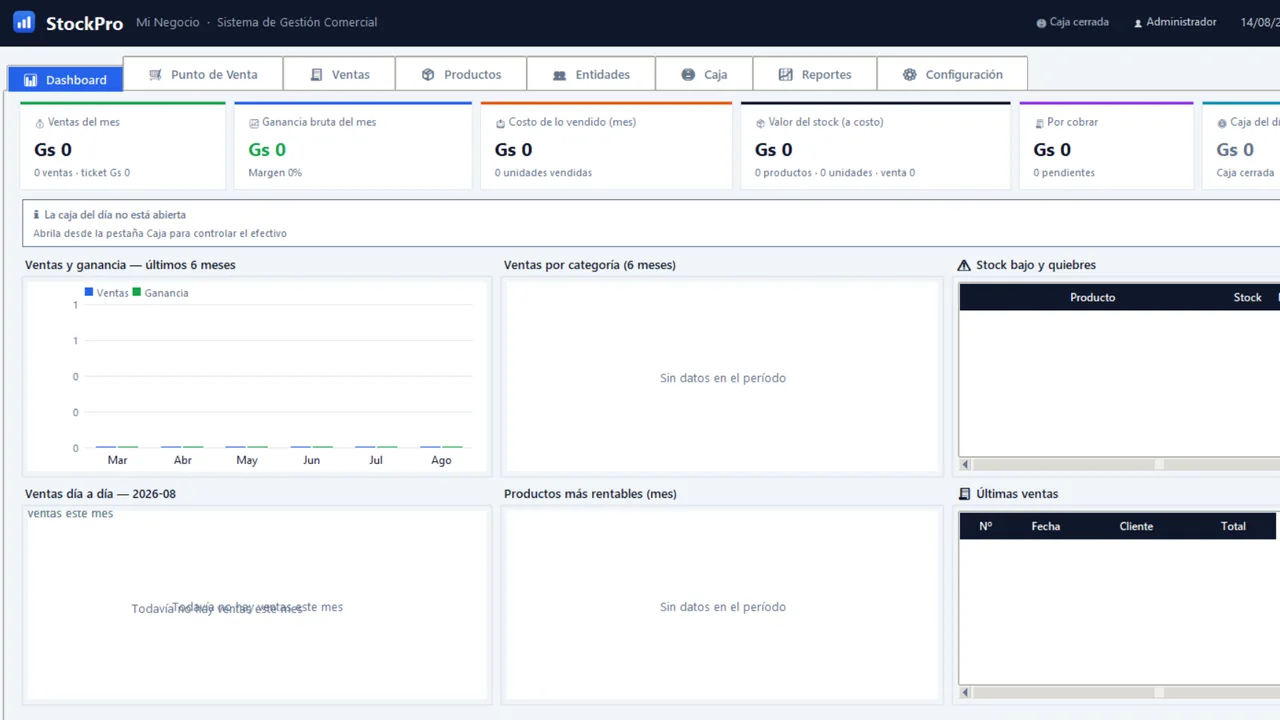
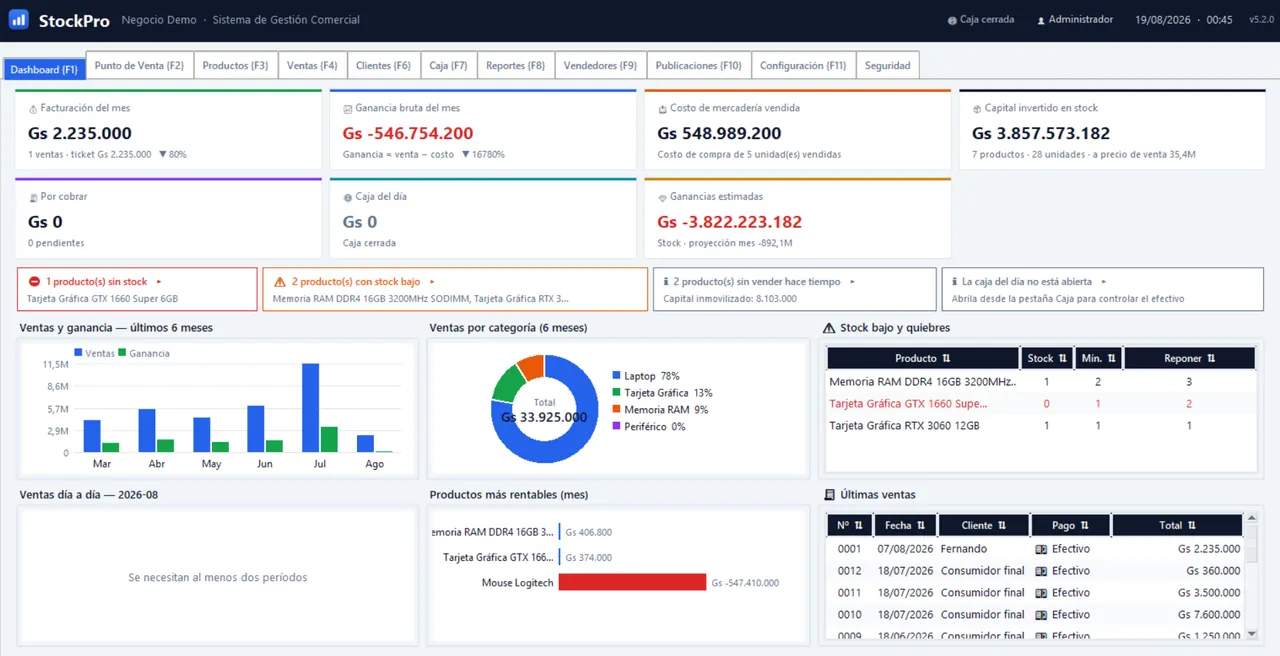
feat(proyectos): tres proyectos nuevos, mosaico por paridad y distintivo ELBRUX
Entran Cinemateca, Pulse y Marvel World, y se reemplaza la captura de
StockPro: la anterior estaba sin datos cargados y recortada por la derecha.

El ancho de cada pieza deja de escribirse en el proyecto y lo reparte
anchos() segun cuantas hay a la vista: filas de dos, y de tres en la ultima
cuando el numero es impar. Hace falta calcularlo porque el filtro por
tecnologia cambia ese numero, y con anchos fijos filtrar obligaba a mandar
todas las piezas a una sola columna. Vive en data/mosaico.ts y no en
data/projects.ts porque lo usa tambien el script del navegador, y projects.ts
importa las capturas con astro:assets.

Se quita el hueco vertical de sobra entre filas: cada panel cerrado ocupa su
fila aunque mida 0 px, y con gap-4 se llevaba un hueco entero a cada lado.
Ahora la rejilla solo separa columnas y el vertical lo pone la pieza.

La captura del panel llena la columna en vez de quedarse en su alto natural,
que dejaba un vacio debajo. Ancla a la izquierda para que el recorte se lo
lleve el borde derecho y no las barras laterales de las interfaces.

Faro y Timon llevan distintivo de ELBRUX en la pieza y una linea enlazada a
Experiencia en el panel. StockPro no lo lleva: se entrego aparte de la marca.

diff --git a/src/i18n/content.ts b/src/i18n/content.ts
@@ -147,6 +147,24 @@ export const projects: Record<Lang, ProjectEntry[]> = {
       description:
         "Aplicación móvil para la gestión de listas de compras con sincronización en tiempo real, pensada para mejorar la organización y experiencia del usuario.",
     },
+    {
+      title: "Cinemateca",
+      resumen: "Catálogo de cine y sala de dominio público",
+      description:
+        "Catálogo de cine en español con el censo completo de TMDb —más de 1,2 millones de títulos—, estrenos al día y las plataformas donde ver cada película legalmente en cada país. Incluye una sala libre con reproductor propio, selector de calidad, pistas de audio y subtítulos, que solo sirve obras de dominio público y Creative Commons: la restricción la impone un trigger en PostgreSQL, no la buena voluntad del código. Los importadores son reanudables, con el cursor guardado en la base.",
+    },
+    {
+      title: "Pulse",
+      resumen: "Catálogo musical con reproductor propio",
+      description:
+        "Catálogo musical en español que separa obra, grabación y publicación, la distinción que ninguna plataforma comercial expone: créditos completos de quién tocó, produjo y mezcló cada tema, formaciones de los grupos con sus años y búsqueda por un verso de la letra. El reproductor es propio, con cola, radio infinita, listas, atajos de teclado y un visualizador que lee el audio real con AnalyserNode. Suena entero solo lo libre; del resto, el adelanto oficial.",
+    },
+    {
+      title: "Marvel World",
+      resumen: "Enciclopedia del universo Marvel",
+      description:
+        "Enciclopedia en español del universo Marvel, y no solo lo que llegó al cine: más de 2.600 personajes con su Power Grid oficial y relaciones dirigidas entre ellos —«mentor de» no significa lo mismo al revés—, además de equipos, especies, lugares, objetos, realidades y eventos, todos navegables en cruce. El esquema lo define SQL numerado y migrado, nunca el ORM, y los importadores de Marvel API, TMDb y Wikidata son idempotentes gracias a una tabla de fuentes externas.",
+    },
   ],
 
   en: [
@@ -185,6 +203,24 @@ export const projects: Record<Lang, ProjectEntry[]> = {
       resumen: "Real-time shopping lists",
       description:
         "Mobile app for managing shopping lists with real-time synchronisation, designed to improve organisation and the overall user experience.",
+    },
+    {
+      title: "Cinemateca",
+      resumen: "Film catalogue and public-domain screening room",
+      description:
+        "Spanish-language film catalogue holding TMDb's full census — over 1.2 million titles — with same-day releases and the platforms where each film can be watched legally in any given country. It includes a free screening room with a custom player offering quality, audio-track and subtitle selection, serving only public-domain and Creative Commons works: the rule is enforced by a PostgreSQL trigger, not by the code's good intentions. Every long importer is resumable, with its cursor stored in the database.",
+    },
+    {
+      title: "Pulse",
+      resumen: "Music catalogue with a custom player",
+      description:
+        "Spanish-language music catalogue that separates work, recording and release — the distinction no commercial service exposes: full credits for who played, produced and mixed each track, band line-ups with their years, and search by a single line of lyrics. The player is custom-built, with a queue, endless radio, playlists, keyboard shortcuts and a visualiser that reads the real audio through an AnalyserNode. Only free music plays in full; everything else, the official preview.",
+    },
+    {
+      title: "Marvel World",
+      resumen: "Encyclopaedia of the Marvel universe",
+      description:
+        "Spanish-language encyclopaedia of the Marvel universe, and not just what made it to the screen: over 2,600 characters with their official Power Grid and directed relationships between them — \"mentor of\" does not mean the same in reverse — plus teams, species, locations, objects, realities and events, all cross-navigable. The schema is defined by numbered, migrated SQL rather than the ORM, and the Marvel API, TMDb and Wikidata importers are idempotent thanks to an external-sources table.",
     },
   ],
 };

diff --git a/src/data/projects.ts b/src/data/projects.ts
@@ -15,6 +15,9 @@ import stockpro from "../assets/projects/StockPro.webp";
 import biotech from "../assets/projects/BioTech.webp";
 import atelier from "../assets/projects/Atelier.webp";
 import shopeasy from "../assets/projects/ShopEasy.webp";
+import cinemateca from "../assets/projects/Cinemateca.webp";
+import pulse from "../assets/projects/Pulse.webp";
+import marvelworld from "../assets/projects/MarvelWorld.webp";
 
 export interface Project {
   /** identifica la tarjeta en el DOM y en la URL del filtro */
@@ -22,6 +25,12 @@ export interface Project {
   image: ImageMetadata;
   /** sitio publico, vacio si no lo tiene */
   link: string;
+  /**
+   * Entregado como ELBRUX, la marca propia. Marca la pieza en el mosaico.
+   * Solo Faro y Timon: StockPro se entrego aparte, aunque comparta cliente
+   * y epoca.
+   */
+  elbrux?: true;
   /** lo que caracteriza al proyecto; se muestra como etiquetas de color */
   tags: TechKey[];
   /**
@@ -35,13 +44,14 @@ export interface Project {
    */
   transversal: TechKey[];
   /**
-   * Posicion y tamano en el mosaico. El array conserva el orden de
-   * i18n/content.ts, que empareja por indice; la seccion ordena por `orden`
-   * despues de juntar ambos. Los `span` de cada fila suman 3, que son las
-   * columnas del mosaico: si no suman, quedan huecos.
+   * Posicion en el mosaico. El array conserva el orden de i18n/content.ts, que
+   * empareja por indice; la seccion ordena por `orden` despues de juntar ambos.
+   *
+   * El ancho de la pieza no se escribe aqui: lo reparte anchos() en
+   * data/mosaico.ts segun cuantas haya a la vista, que con el filtro por
+   * tecnologia no son siempre las nueve.
    */
   orden: number;
-  span: 1 | 2;
 }
 
 export const PROJECTS: Project[] = [
@@ -49,19 +59,19 @@ export const PROJECTS: Project[] = [
     slug: "faro",
     image: faro,
     link: "",
+    elbrux: true,
     tags: ["python", "fastapi", "postgresql", "react", "tailwind", "docker"],
     transversal: ["git", "html", "css", "node"],
-    orden: 1,
-    span: 2,
+    orden: 4,
   },
   {
     slug: "timon",
     image: timon,
     link: "",
+    elbrux: true,
     tags: ["python", "fastapi", "postgresql", "react", "tailwind", "docker"],
     transversal: ["git", "html", "css", "node"],
-    orden: 4,
-    span: 2,
+    orden: 5,
   },
   {
     slug: "stockpro",
@@ -69,8 +79,7 @@ export const PROJECTS: Project[] = [
     link: "",
     tags: ["python", "tkinter", "sqlite"],
     transversal: ["git"],
-    orden: 2,
-    span: 1,
+    orden: 6,
   },
   {
     slug: "biotech",
@@ -78,8 +87,7 @@ export const PROJECTS: Project[] = [
     link: "",
     tags: ["java", "springboot", "postgresql", "react", "javascript", "bootstrap", "docker"],
     transversal: ["git", "html", "css", "node"],
-    orden: 5,
-    span: 2,
+    orden: 7,
   },
   {
     slug: "atelier",
@@ -87,8 +95,7 @@ export const PROJECTS: Project[] = [
     link: "",
     tags: ["java", "springboot", "postgresql", "react", "javascript", "bootstrap"],
     transversal: ["git", "html", "css", "node"],
-    orden: 3,
-    span: 1,
+    orden: 8,
   },
   {
     slug: "shopeasy",
@@ -96,8 +103,31 @@ export const PROJECTS: Project[] = [
     link: "https://shopeasy-app.web.app/",
     tags: ["ionic", "angular", "firebase", "typescript", "sass"],
     transversal: ["git", "html", "css", "node"],
-    orden: 6,
-    span: 1,
+    orden: 9,
+  },
+  {
+    slug: "cinemateca",
+    image: cinemateca,
+    link: "",
+    tags: ["python", "fastapi", "postgresql", "react", "tailwind", "docker"],
+    transversal: ["git", "html", "css", "node"],
+    orden: 1,
+  },
+  {
+    slug: "pulse",
+    image: pulse,
+    link: "",
+    tags: ["python", "fastapi", "postgresql", "react", "tailwind", "docker"],
+    transversal: ["git", "html", "css", "node"],
+    orden: 2,
+  },
+  {
+    slug: "marvel-world",
+    image: marvelworld,
+    link: "",
+    tags: ["python", "fastapi", "postgresql", "react", "tailwind", "docker"],
+    transversal: ["git", "html", "css", "node"],
+    orden: 3,
   },
 ];
 

diff --git a/src/data/mosaico.ts b/src/data/mosaico.ts
@@ -1,0 +1,38 @@
+/**
+ * Reparto de anchos del mosaico de proyectos.
+ *
+ * Vive aparte de data/projects.ts porque lo usa tambien el script del
+ * navegador: projects.ts importa las capturas con astro:assets, y arrastrarlo
+ * al cliente se llevaria las imagenes al bundle.
+ */
+
+/** Columnas del mosaico en escritorio */
+export const COLUMNAS = 3;
+
+/**
+ * Ancho, en columnas, de cada una de las `n` piezas visibles.
+ *
+ * Las filas son de dos piezas, una ancha y otra estrecha, alternando el lado
+ * para que el mosaico no quede en escalera. Con un numero impar de piezas la
+ * ultima fila lleva tres iguales: es lo unico que cierra las tres columnas sin
+ * dejar hueco ni una pieza suelta.
+ *
+ * Se calcula en vez de venir escrito en cada proyecto porque el filtro por
+ * tecnologia cambia cuantas piezas hay a la vista. Con anchos fijos, filtrar
+ * obligaba a mandarlas todas a una columna.
+ */
+export function anchos(n: number): (1 | 2)[] {
+  // con n impar las tres ultimas van a su propia fila; el resto, de dos en dos
+  const enPares = n % 2 === 0 ? n : Math.max(n - COLUMNAS, 0);
+  const reparto: (1 | 2)[] = [];
+
+  for (let i = 0; i < enPares; i += 2) {
+    const anchaPrimero = (i / 2) % 2 === 0;
+    reparto.push(anchaPrimero ? 2 : 1, anchaPrimero ? 1 : 2);
+  }
+
+  // la fila de tres del final, y el caso de una sola pieza filtrada
+  while (reparto.length < n) reparto.push(1);
+
+  return reparto;
+}

diff --git a/src/i18n/ui.ts b/src/i18n/ui.ts
@@ -83,6 +83,8 @@ export const ui = {
     "projects.expand": "Ver detalle",
     "projects.collapse": "Cerrar detalle",
     "projects.noResults": "Ningún proyecto usa esa tecnología.",
+    "projects.elbrux": "Proyecto de ELBRUX",
+    "projects.elbruxLink": "Ver la experiencia",
 
     "stack.main": "Stack principal",
     "stack.mainNote": "Lo que uso a diario y donde estoy más fuerte",
@@ -211,6 +213,8 @@ export const ui = {
     "projects.expand": "See details",
     "projects.collapse": "Close details",
     "projects.noResults": "No project uses that technology.",
+    "projects.elbrux": "An ELBRUX project",
+    "projects.elbruxLink": "See the experience",
 
     "stack.main": "Core stack",
     "stack.mainNote": "What I use daily and where I'm strongest",
